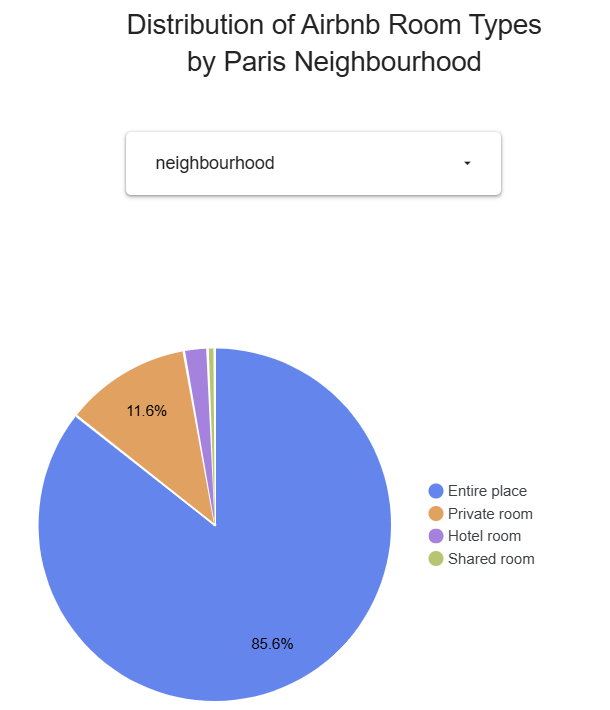
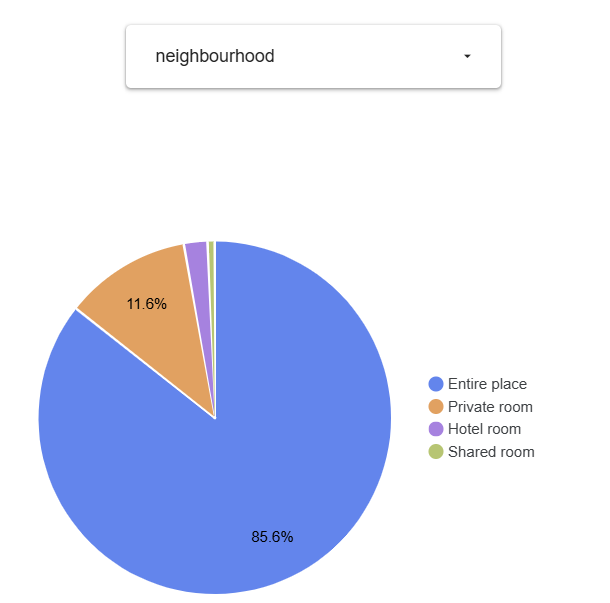
docs: update README assets and diagrams

diff --git a/README.md b/README.md
@@ -96,9 +96,10 @@ The objective of this analysis is to provide insights into the local accommodati
 <h3>📈 1. Distribution of Room Types by Neighbourhood</h3>
   <tr>
     <td width="50%" align="center" valign="top">
-      <a href="https://lookerstudio.google.com/reporting/07d24862-8208-40db-a2fd-9176d311c94b/page/tEnnC">
-         <img src="chart-distrubition_of_room_types.png" alt="Distribution of Room Types" width="100%">
-      </a>
+      <img src="chart-distrubition_of_room_types.png" alt="Distribution of Room Types" width="100%">
+      <small><em>Distribution of Airbnb Room Types
+by Paris Neighbourhood</em></small>
+      
     </td>
     <td width="50%" valign="top">
       <p><strong>Format:</strong> <code>Interactive Pie Chart</code></p>
@@ -121,7 +122,7 @@ The objective of this analysis is to provide insights into the local accommodati
 <img src="chart-review_trends_top_20_paris_rooms.png" alt="Comparative Monthly Review Trends" width="100%">
 
 
-<small><em>Figure 2. Stacked Monthly Review Volume (2019 vs. 2020)</em></small>
+<small><em>Review Trends Before and After the Pandemic Top 20 Paris Rooms</em></small>
 </td>
 <td width="50%" valign="top">
 
